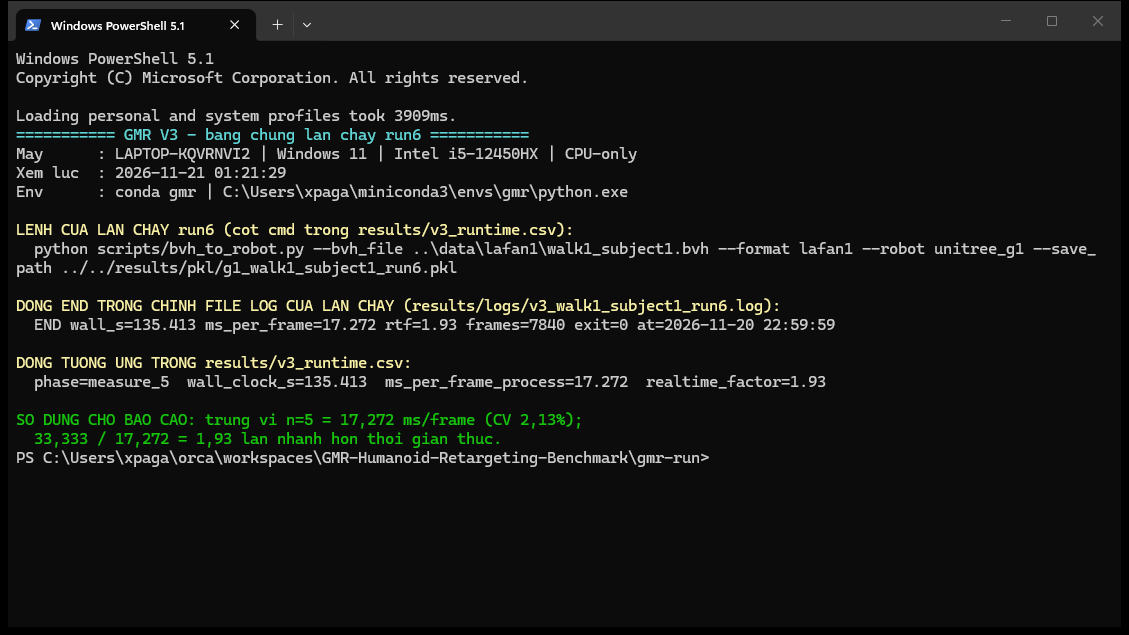
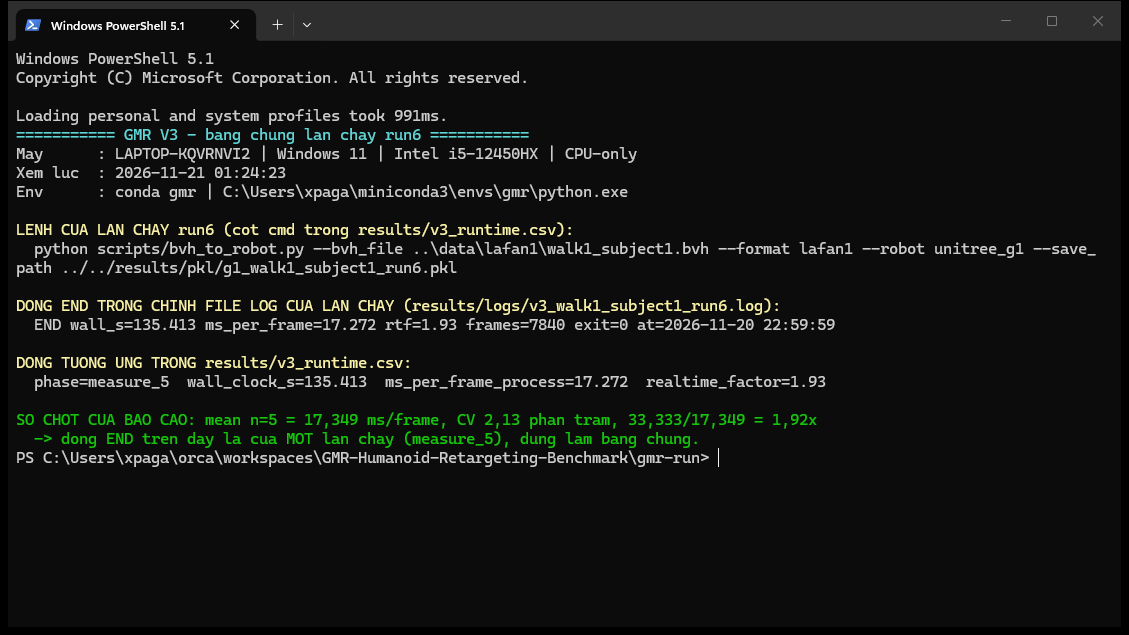
fix: chot so theo quy tac CV<=5% dung MEAN - V3 mean 17,349 (1,92x), V5 PM01 34,975/G1 16,758 mean, T1 13,034 median; chup lai anh run6; cap nhat do thi V5 va 3 tai lieu

Changed region(s): [[0.031, 0.6283, 0.713, 0.7181], [0.341, 0.1795, 0.403, 0.2094]]

diff --git a/tools/plot_v3.py b/tools/plot_v3.py
@@ -42,32 +42,35 @@ if os.path.exists(v3_path):
     fig.savefig(out1, dpi=130)
     print("saved", out1)
 
-# ---------- V5: trung vị + min–max ----------
+# ---------- V5: mean nếu CV <= 5 %, median nếu CV > 5 % (docs/dinh_nghia_phep_do.md §4) ----------
 v5_path = os.path.join(ROOT, "results", "v5_sim2sim.csv")
 if os.path.exists(v5_path):
     v5 = [r for r in load("v5_sim2sim.csv")
           if r["status"] == "ok" and r["phase"].startswith("measure")]
     order = [("engineai_pm01", "#d62728"), ("booster_t1_29dof", "#2ca02c"), ("unitree_g1", "#1f77b4")]
-    labels, meds, lows, highs, ns = [], [], [], [], []
+    labels, vals, lows, highs, kinds = [], [], [], [], []
     for rb, color in order:
         v = [float(r["ms_per_frame_process"]) for r in v5 if r["robot"] == rb]
         if v:
-            labels.append(f"{rb}\n(n={len(v)})")
-            meds.append(statistics.median(v))
+            mean, sd = statistics.mean(v), statistics.stdev(v) if len(v) > 1 else 0.0
+            cv = 100 * sd / mean
+            use_mean = cv <= 5.0
+            labels.append(f"{rb}\n(n={len(v)}, CV {cv:.1f}%)")
+            vals.append(mean if use_mean else statistics.median(v))
+            kinds.append("mean" if use_mean else "median")
             lows.append(min(v))
             highs.append(max(v))
-            ns.append(len(v))
     fig2, ax2 = plt.subplots(figsize=(7.6, 4.4))
-    bars = ax2.bar(labels, meds, color=[c for _, c in order], width=0.55)
-    err_low = [m - lo for m, lo in zip(meds, lows)]
-    err_high = [hi - m for m, hi in zip(meds, highs)]
-    ax2.errorbar(labels, meds, yerr=[err_low, err_high], fmt="none", ecolor="black",
+    bars = ax2.bar(labels, vals, color=[c for _, c in order], width=0.55)
+    err_low = [m - lo for m, lo in zip(vals, lows)]
+    err_high = [hi - m for m, hi in zip(vals, highs)]
+    ax2.errorbar(labels, vals, yerr=[err_low, err_high], fmt="none", ecolor="black",
                  capsize=6, linewidth=1)
-    for i, m in enumerate(meds):
-        ax2.annotate(f"median {m:.2f}", (i, highs[i]), ha="center", va="bottom", fontsize=8)
+    for i, m in enumerate(vals):
+        ax2.annotate(f"{kinds[i]} {m:.2f}", (i, highs[i]), ha="center", va="bottom", fontsize=8)
     ax2.axhline(33.333, color="crimson", linestyle="--", linewidth=1, label="ngưỡng 33,33 ms")
     ax2.set_ylabel("ms / frame (toàn tiến trình, Measure-Command)")
-    ax2.set_title("V5 sim2sim — trung vị ms/frame, thanh sai số = min–max\n(cùng walk1_subject1.bvh)")
+    ax2.set_title("V5 sim2sim — mean nếu CV ≤ 5 %, median nếu CV > 5 %\nthanh sai số = min–max (cùng walk1_subject1.bvh)")
     ax2.set_ylim(0, max(highs) * 1.18)
     ax2.legend(fontsize=8)
     ax2.grid(axis="y", alpha=0.3)

diff --git a/results/figures/README.md b/results/figures/README.md
@@ -8,20 +8,20 @@ Người chụp/thực hiện: **Đặng Duy Mạnh (Run)**.
 
 | Ảnh | Nội dung | Lệnh / công cụ sinh ra | Ngày |
 |---|---|---|---|
-| `v3_terminal_start_g1_2026-11-20.png` | Cửa sổ Windows PowerShell 5.1 hiện lệnh đo đang chạy: máy, thời điểm 22:03:51, env `gmr`, input `lafan1/walk1_subject1.bvh` (7840 frame, 30 fps, 261,3 s), đúng dòng lệnh `python scripts/bvh_to_robot.py ...` — **chèn cho slide "phương pháp đo"** | `Start-Process powershell -ArgumentList '-NoExit','-File', 'third_party/_run/v3_evidence_run.ps1'` rồi `orca computer get-app-state --app WindowsTerminal` | 2026-11-20 |
+| `v3_terminal_start_g1_2026-11-20.png` | Cửa sổ Windows PowerShell 5.1 hiện lệnh đo đang chạy: máy, thời điểm 22:03:51, env `gmr`, input `lafan1/walk1_subject1.bvh` (7840 frame, 30 fps, 261,3 s), đúng dòng lệnh `python scripts/bvh_to_robot.py ...` — **chèn cho slide "phương pháp đo"** | `Start-Process powershell -ArgumentList '-NoExit','-File', 'tools/v3_evidence_run.ps1'` rồi `orca computer get-app-state --app WindowsTerminal` | 2026-11-20 |
 | `v3_terminal_result_g1_2026-11-20.png` | ⚠ **KHÔNG dùng cho báo cáo.** Ảnh của lần chạy minh hoạ 22:03 (`13,117 ms/frame`, rtf 2,541) — lần chạy đơn, không thuộc lô 5 lần đo. Giữ lại chỉ để minh hoạ quy trình | như trên, chụp lại sau khi tiến trình kết thúc | 2026-11-20 |
-| `v3_terminal_run6_2026-11-21.png` | Cửa sổ in lại bằng chứng **lần chạy run6**: lệnh đầy đủ, dòng `END wall_s=135.413 ms_per_frame=17.272 rtf=1.93 frames=7840 exit=0 at=2026-11-20 22:59:59` lấy từ chính `results/logs/v3_walk1_subject1_run6.log`, và dòng tương ứng trong `results/v3_runtime.csv` (`phase=measure_5`). **Ảnh chứng minh một lần chạy thật (measure_5, END `ms_per_frame=17.272`); số chốt của báo cáo là mean `17,349` ms trên 5 lần đo, CV 2,13 %** (1000/17,349 ≈ 57,6 FPS). Dòng "số dùng cho báo cáo" in trên màn hình là của riêng lần chạy này, không phải số chốt | `Start-Process powershell -ArgumentList '-NoExit','-File','tools\show_run6_evidence.ps1'` rồi `orca computer get-app-state --app WindowsTerminal` | 2026-11-21 |
+| `v3_terminal_run6_2026-11-21.png` | Cửa sổ in lại bằng chứng **lần chạy run6**: lệnh đầy đủ, dòng `END wall_s=135.413 ms_per_frame=17.272 rtf=1.93 frames=7840 exit=0 at=2026-11-20 22:59:59` lấy từ chính `results/logs/v3_walk1_subject1_run6.log`, dòng tương ứng trong `results/v3_runtime.csv` (`phase=measure_5`). Ảnh **chứng minh một lần chạy thật**; dòng cuối trên màn hình ghi rõ: **số chốt của báo cáo là mean `17,349` ms/frame (n = 5, CV 2,13 %)**, 33,333/17,349 = **1,92×**; dòng `END` là của **một** lần chạy | `Start-Process powershell -ArgumentList '-NoExit','-File','tools\show_run6_evidence.ps1'` rồi `orca computer get-app-state --app WindowsTerminal` | 2026-11-21 |
 
 ## 2. Ảnh render robot trong MuJoCo
 
 | Ảnh | Nội dung | Lệnh / công cụ sinh ra | Ngày |
 |---|---|---|---|
 | `v3_render_mujoco_g1_2026-11-20.png` | Cửa sổ MuJoCo `MuJoCo : g1_mocap` đang phát Unitree G1 trong lúc chạy V3 (chụp màn hình cửa sổ thật) — **slide "demo chạy được"** | `python scripts/bvh_to_robot.py --bvh_file ../data/lafan1/walk4_subject1.bvh --format lafan1 --robot unitree_g1 --save_path ...` + `orca computer get-app-state --app python` | 2026-11-20 |
-| `fix_walk4_frame2000_g1_2026-11-20.png` | KI-01: G1 tại frame 2000 của `walk4_subject1` — gập người về trước (waist 29,5°) — **slide "known issue"** | `python third_party/_run/analyze_pose.py results/pkl/g1_walk4_no_rate_limit_1.pkl third_party/GMR/assets/unitree_g1/g1_mocap_29dof.xml <ảnh> 2000` | 2026-11-20 |
+| `fix_walk4_frame2000_g1_2026-11-20.png` | KI-01: G1 tại frame 2000 của `walk4_subject1` — gập người về trước (waist 29,5°) — **slide "known issue"** | `python tools/analyze_pose.py results/pkl/g1_walk4_no_rate_limit_1.pkl third_party/GMR/assets/unitree_g1/g1_mocap_29dof.xml <ảnh> 2000` | 2026-11-20 |
 | `fix_walk4_frame0_g1_2026-11-20.png` | KI-01: G1 tại frame 0 của cùng pkl (tư thế đầu clip) | như trên, frame 0 | 2026-11-20 |
-| `fix_walk3_frame2000_g1_2026-11-20.png` | Đối chứng: G1 tại frame 2000 của `walk3_subject1` (waist 25,2°) | `python third_party/_run/analyze_pose.py results/pkl/fix_walk3_subject1_unitree_g1.pkl ... 2000` | 2026-11-20 |
-| `fix_dance1_frame2000_g1_2026-11-20.png` | Đối chứng: G1 tại frame 2000 của `dance1_subject2` (clip repo đánh dấu `[x]`) | `python third_party/_run/analyze_pose.py results/pkl/fix_dance1_g1.pkl ... 2000` | 2026-11-20 |
-| `v5_sim2sim_g1_frame2000_2026-11-20.png` | V5: Unitree G1, frame 2000 của `walk1_subject1` — **slide "sim2sim"**. Sinh từ pkl **bản đầu** `results/pkl/v5_unitree_g1_walk1_subject1.pkl` (ảnh tạo 23:03, trước khi đo lại RV-15 lúc 23:18); pkl này có SHA256 **trùng** với `…_run1.pkl` nên nội dung ảnh y hệt | `python third_party/_run/analyze_pose.py results/pkl/v5_unitree_g1_walk1_subject1.pkl <xml G1> <ảnh> 2000` | 2026-11-20 |
+| `fix_walk3_frame2000_g1_2026-11-20.png` | Đối chứng: G1 tại frame 2000 của `walk3_subject1` (waist 25,2°) | `python tools/analyze_pose.py results/pkl/fix_walk3_subject1_unitree_g1.pkl ... 2000` | 2026-11-20 |
+| `fix_dance1_frame2000_g1_2026-11-20.png` | Đối chứng: G1 tại frame 2000 của `dance1_subject2` (clip repo đánh dấu `[x]`) | `python tools/analyze_pose.py results/pkl/fix_dance1_g1.pkl ... 2000` | 2026-11-20 |
+| `v5_sim2sim_g1_frame2000_2026-11-20.png` | V5: Unitree G1, frame 2000 của `walk1_subject1` — **slide "sim2sim"**. Sinh từ pkl **bản đầu** `results/pkl/v5_unitree_g1_walk1_subject1.pkl` (ảnh tạo 23:03, trước khi đo lại RV-15 lúc 23:18); pkl này có SHA256 **trùng** với `…_run1.pkl` nên nội dung ảnh y hệt | `python tools/analyze_pose.py results/pkl/v5_unitree_g1_walk1_subject1.pkl <xml G1> <ảnh> 2000` | 2026-11-20 |
 | `v5_sim2sim_t1_frame2000_2026-11-20.png` | V5: Booster T1 29dof, cùng frame 2000. Sinh từ pkl **bản đầu** `v5_booster_t1_29dof_walk1_subject1.pkl`, SHA256 trùng `…_run1.pkl` (`4E7161873D508ABE…`) | `... v5_booster_t1_29dof_walk1_subject1.pkl <xml T1> ...` | 2026-11-20 |
 | `v5_sim2sim_pm01_frame2000_2026-11-20.png` | V5: ENGINEAI PM01, cùng frame 2000. Sinh từ pkl **bản đầu** `v5_engineai_pm01_walk1_subject1.pkl`, SHA256 trùng `…_run1.pkl` (`57B693A8AAC72FE8…`) | `... v5_engineai_pm01_walk1_subject1.pkl <xml PM01> ...` | 2026-11-20 |
 
@@ -29,8 +29,8 @@ Người chụp/thực hiện: **Đặng Duy Mạnh (Run)**.
 
 | Ảnh | Nội dung | Lệnh / công cụ sinh ra | Ngày |
 |---|---|---|---|
-| `v3_ms_per_frame_g1_2026-11-20.png` | ms/frame theo từng lần đo (5 lần, **không** `--rate_limit`), đường ngưỡng 33,33 ms — **slide "kết quả V3"** | `python third_party/_run/plot_v3.py` (đọc `results/v3_runtime.csv`) | 2026-11-20 |
-| `v5_ms_per_frame_robots_2026-11-20.png` | **Trung vị** ms/frame (thanh sai số = min–max) cho V5 sim2sim: PM01 35,45 (n=3) · T1 29dof 13,03 (n=5) · G1 17,02 (n=3) — **slide "sim2sim"** | `python third_party/_run/plot_v3.py` (đọc `results/v5_sim2sim.csv`) | 2026-11-21 (vẽ lại sau RV-24; tệp giữ tên theo ngày tạo ban đầu) |
+| `v3_ms_per_frame_g1_2026-11-20.png` | ms/frame theo từng lần đo (5 lần, **không** `--rate_limit`), đường ngưỡng 33,33 ms — **slide "kết quả V3"** | `python tools/plot_v3.py` (đọc `results/v3_runtime.csv`) | 2026-11-20 |
+| `v5_ms_per_frame_robots_2026-11-20.png` | ms/frame theo robot cho V5 sim2sim, áp quy tắc §4: **mean** nếu CV ≤ 5 % (PM01 **34,97**, G1 **16,76**), **median** nếu CV > 5 % (T1 29dof **13,03**); thanh sai số = min–max — **slide "sim2sim"** | `python tools\plot_v3.py` (đọc `results/v5_sim2sim.csv`) | 2026-11-21 |
 
 ## 4. Ảnh mở file CSV kết quả
 
@@ -41,7 +41,7 @@ Người chụp/thực hiện: **Đặng Duy Mạnh (Run)**.
 ## 5. Khung ảnh trích từ video demo (25 / 50 / 75 %)
 
 Nguồn: 3 clip trong `results/media/` (60,00 s = 1800 frame, 1280×720). Trích bằng
-`python third_party/_run/extract_frames.py <mp4> <tiền_tố> 1800`.
+`python tools/extract_frames.py <mp4> <tiền_tố> 1800`.
 
 | Ảnh | Clip | Frame | Chèn cho slide |
 |---|---|---|---|

diff --git a/results/media/README.md b/results/media/README.md
@@ -8,12 +8,12 @@ File `.mp4` nằm trong thư mục này nhưng **đã bị `.gitignore` chặn**
 
 | Tệp | pkl nguồn | Lệnh sinh | Thời lượng | Frame đã trích (25 / 50 / 75 %) |
 |---|---|---|---|---|
-| `s1_human_input.mp4` | không dùng pkl — lấy `retargeter.scaled_human_data` của `walk1_subject1.bvh` (frame 300–599) | `python third_party/_run/record_s1c.py --start 300 --frames 300 --out results/media/s1_human_input.mp4` | **10,00 s** · 300 frame · 1280×720 | chưa trích |
-| `v3_walk1_g1.mp4` | `results/pkl/g1_walk1_subject1_run1.pkl` (G1, walk1_subject1; SHA256 trùng với pkl `g1_walk1_subject1_no_rate_limit_1.pkl` đã dùng lúc ghi clip → nội dung y hệt) | `python third_party/_run/record_clip.py --robot unitree_g1 --robot_motion_path <pkl> --video_path results/media/v3_walk1_g1.mp4 --frames 1800 --start 0` | 60,00 s · 1800 frame | 450 / 900 / 1350 |
-| `v3_walk4_g1.mp4` | `results/pkl/g1_walk4_no_rate_limit_1.pkl` (G1, walk4_subject1 — clip khom lưng, KI-01) | `python third_party/_run/record_clip.py --robot unitree_g1 --robot_motion_path <pkl> --video_path results/media/v3_walk4_g1.mp4 --frames 1800 --start 0` | 60,00 s · 1800 frame | 450 / 900 / 1350 |
+| `s1_human_input.mp4` | không dùng pkl — lấy `retargeter.scaled_human_data` của `walk1_subject1.bvh` (frame 300–599) | `python tools/record_s1c.py --start 300 --frames 300 --out results/media/s1_human_input.mp4` | **10,00 s** · 300 frame · 1280×720 | chưa trích |
+| `v3_walk1_g1.mp4` | `results/pkl/g1_walk1_subject1_run1.pkl` (G1, walk1_subject1; SHA256 trùng với pkl `g1_walk1_subject1_no_rate_limit_1.pkl` đã dùng lúc ghi clip → nội dung y hệt) | `python tools/record_clip.py --robot unitree_g1 --robot_motion_path <pkl> --video_path results/media/v3_walk1_g1.mp4 --frames 1800 --start 0` | 60,00 s · 1800 frame | 450 / 900 / 1350 |
+| `v3_walk4_g1.mp4` | `results/pkl/g1_walk4_no_rate_limit_1.pkl` (G1, walk4_subject1 — clip khom lưng, KI-01) | `python tools/record_clip.py --robot unitree_g1 --robot_motion_path <pkl> --video_path results/media/v3_walk4_g1.mp4 --frames 1800 --start 0` | 60,00 s · 1800 frame | 450 / 900 / 1350 |
 | `v5_sim2sim_g1_t1_pm01.mp4` | 3 pkl `results/pkl/v5_{unitree_g1,booster_t1_29dof,engineai_pm01}_walk1_subject1_run1.pkl` (bản đo lại của RV-15; SHA256 trùng với pkl cũ nên nội dung chuyển động y hệt) | ghi 3 đoạn 600 frame (`--start 300`) rồi `ffmpeg -f concat -c copy` | 60,00 s · 1800 frame (3 × 20 s) | 450 (G1) / 900 (T1) / 1350 (PM01) |
 
-**Vì sao dùng `third_party/_run/record_clip.py` thay vì chạy trực tiếp `scripts/vis_robot_motion.py`:**
+**Vì sao dùng `tools/record_clip.py` thay vì chạy trực tiếp `scripts/vis_robot_motion.py`:**
 `scripts/vis_robot_motion.py` chạy `while True` và reset `frame_idx` về 0 khi hết motion, nên **không bao giờ gọi `env.close()`** → writer MP4 không được đóng, file hỏng; ngoài ra script không có tham số `video_width/video_height` (mặc định 640×480, không phải 16:9) và không giới hạn số frame.
 Wrapper chỉ gọi đúng lớp `RobotMotionViewer` của repo, không sửa dòng nào trong `scripts/`.
 

diff --git a/results/media/demo_manifest.md b/results/media/demo_manifest.md
@@ -39,10 +39,10 @@ S4c,results/media/v5_sim2sim_g1_t1_pm01.mp4,45.0,10.0,sim2sim ENGINEAI PM01,segm
 
 Kế hoạch ghi "quay bằng viewer của GMR (có vẽ điểm khớp người, `human_point_scale=0.1`)". Đã thử đúng cách đó: `RobotMotionViewer(record_video=True)` + `human_motion_data=retargeter.scaled_human_data` → **video ra chỉ có robot, không có điểm khớp người**, vì `robot_motion_viewer.py` vẽ marker vào `self.viewer.user_scn` (scene của **cửa sổ**) còn video được ghi bằng một `mj.Renderer` riêng — marker không đi vào file mp4.
 
-Cách đã dùng: `third_party/_run/record_s1c.py` lấy **đúng** `retargeter.scaled_human_data` (dữ liệu người sau scale của GMR), vẽ bộ xương + trục khớp dài **0,1 m** vào scene của renderer, trên sàn phẳng, camera bám khớp `Hips`. Vẫn là dữ liệu người của GMR và cùng engine MuJoCo; khác duy nhất là không phải cửa sổ viewer gốc. **Không sửa `scripts/` hay thư viện repo.**
+Cách đã dùng: `tools/record_s1c.py` lấy **đúng** `retargeter.scaled_human_data` (dữ liệu người sau scale của GMR), vẽ bộ xương + trục khớp dài **0,1 m** vào scene của renderer, trên sàn phẳng, camera bám khớp `Hips`. Vẫn là dữ liệu người của GMR và cùng engine MuJoCo; khác duy nhất là không phải cửa sổ viewer gốc. **Không sửa `scripts/` hay thư viện repo.**
 
 ## Số liệu để đặt phụ đề
 
-- S2: `17,272 ms/frame` (trung vị n = 5) → nhanh hơn **1,93×** thời gian thực (33,333 / 17,272). *(Số 1,96 là của V5 G1 — không dùng cho S2.)*
-- S4: T1 29dof **13,0** ms · G1 **17,0** ms · PM01 **35,5** ms (trung vị).
+- S2: **`17,349 ms/frame`** (mean n = 5, CV 2,13 %) → nhanh hơn **1,92×** thời gian thực (33,333 / 17,349). *(1,93× là của một lần chạy riêng `measure_5` = 17,272 ms; 1,96 là của V5 G1 — không dùng cho S2.)*
+- S4: T1 29dof **13,0** ms (median, CV 11,3 %) · G1 **16,8** ms (mean, CV 4,6 %) · PM01 **35,0** ms (mean, CV 3,0 %).
 - S5 (nếu dùng): `results/figures/v6_noise_vs_deviation.png`.

diff --git a/logs/lenh_da_chay.md b/logs/lenh_da_chay.md
@@ -137,5 +137,5 @@ orca computer get-app-state --app notepad --window-id <id> --json             # 
 
 ## Ghi chú tái lập
 
-- `third_party/_run/*.ps1|*.py` là script phụ trợ của Run (đo, vẽ, render, ghi video). Nằm trong `third_party/` nên **không commit**; nội dung đã chép trong log này và trong `logs/nhat_ky_cai_dat.md`.
+- `tools/*.ps1|*.py` là script phụ trợ của Run (đo, vẽ, render, ghi video). Nằm trong `third_party/` nên **không commit**; nội dung đã chép trong log này và trong `logs/nhat_ky_cai_dat.md`.
 - `results/pkl/*.pkl` và `results/logs/*.log`: pkl bị `.gitignore` chặn (dung lượng), log thì commit.
